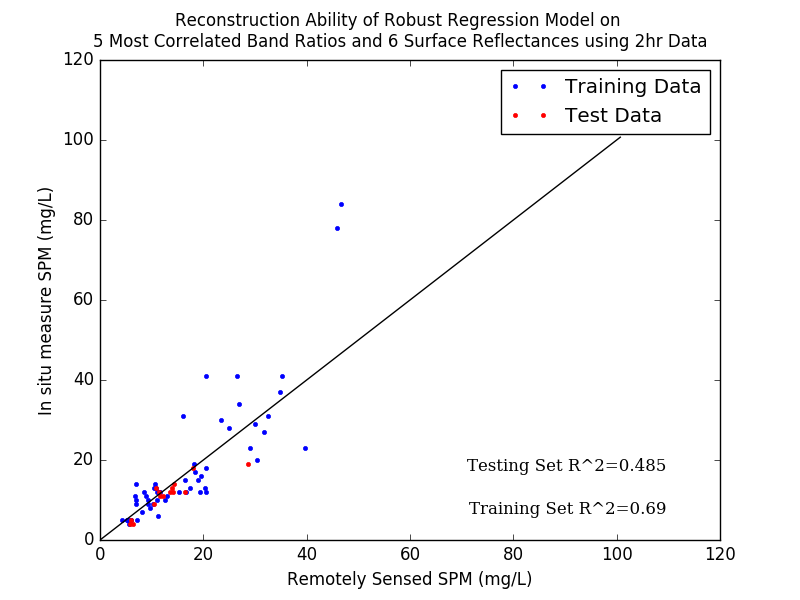
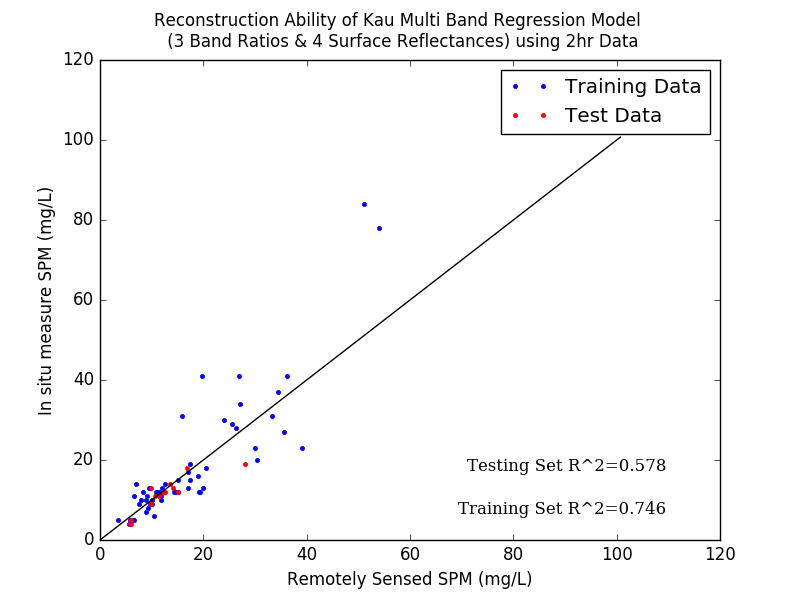
fixed polaris csv with extinction coeffs using google docs and excel. started coding excoeff plot making

diff --git a/learning/make_plots.py b/learning/make_plots.py
@@ -8,53 +8,36 @@ seed = 4
 
 
 def r2_vs_time_cutoff(times, spm_cutoff=None):
-    # times = np.array([1,2,4])
-
     r2s = np.zeros_like(times, dtype='float64')
     num_data = np.zeros_like(times, dtype='int32')
 
-    thetas = np.array([]).reshape(9, 0)
     for index, time in enumerate(times):
-        # print index,time
+        # get appropriate features
         x, y = regression.get_data(filenames=[
             '/Users/Nathan/Dropbox/SedimentLearning/data/landsat_polaris_filtered/filtered_{}hr.csv'.format(time)],
             spm_cutoff=spm_cutoff)
-        print x.shape
-        top_5_bands = regression.top_5_band_ratios(x)
-        # Add to feature array
-        x = np.append(x, top_5_bands, axis=1)
+        x = regression.Kau_MB_BR_features(x)
 
-        logy = np.log(y)
+        logy = np.log10(y)
+
+        # create the huber fit model
         alpha = 8
-
         model = mycvx.kfolds_convex(x, logy, alpha, random_seed=seed)
-
         y_test = model['data']['y_test']
         y_pred = model['data']['y_pred']
         y_train = model['data']['y_train']
         y_train_pred = model['data']['y_train_pred']
 
-        # print model['theta']
-
-
         r2_test = np.round(r2_score(y_test, y_pred), 3)
         r2_train = np.round(r2_score(y_train, y_train_pred), 3)
 
-        r2_test_unlog = np.round(r2_score(np.exp(y_test), np.exp(y_pred)), 3)
-        r2_train_unlog = np.round(r2_score(np.exp(y_train), np.exp(y_train_pred)), 3)
+        r2_test_unlog = np.round(r2_score(np.power(10,y_test), np.power(10,y_pred)), 3)
+        r2_train_unlog = np.round(r2_score(np.power(10,y_train), np.power(10,y_train_pred)), 3)
 
-        # print r2_train,r2_test
-        # r2s[index] = r2_train
         r2s[index] = r2_train_unlog
         num_data[index] = x.shape[0]
 
-        # TODO fix this bug, thetas is 1d array
-        # thetas = np.append(thetas,model['theta'],axis=1)
-
         print r2s, num_data
-    # print thetas
-    # TODO, fix division
-    # print np.divide(thetas[1],thetas[0])
     return r2s, num_data
 
 
@@ -66,6 +49,9 @@ def plot_r2_over_time_diff():
     # r2s,num_data = [ 0.702  0.655  0.432  0.106  0.106  0.106  0.045  0.17 ], [ 61, 126, 234, 281, 281, 281, 298, 480]
     # unlogged r2 below, ALL POINTS UNDER CLOUD AND ADJACENT DELETED
     # [ 0.883  0.697  0.447  0.204  0.204  0.204  0.216  0.162] [ 34  75 157 185 185 185 197 302]
+
+    # unlogged r2 below, NEW KAU FEATURES
+    # [ 0.851  0.746  0.439  0.165  0.165  0.165  0.191  0.16 ] [ 34  75 157 185 185 185 197 302]
     fig = plt.figure()
     ax = fig.add_subplot(111)
     ax1plot = ax.plot(times, r2s, 'ob')
@@ -76,9 +62,6 @@ def plot_r2_over_time_diff():
     ax.set_xticks(times)
 
     ax.legend(ax1plot + ax2plot, ['R^2', 'Number of Samples'], loc='upper right')
-    # ax2.legend('Num Samples')
-    # ax.legend(loc=1)
-    # ax2.legend(loc=2)
 
     ax2.set_ylabel('Number of Samples')
     fig.suptitle('R^2s of Robust Regression Model versus Data Collection Time Difference Threshold')
@@ -243,8 +226,58 @@ def make_huber_train_basic(time_cutoff, spm_cutoff=None):
     # plt.show()
     print 'r2 train log: ', r2_train
 
+def make_huber_train_Kau_MB_ExCoeff(time_cutoff):
+    '''
 
-def make_huber_train_band_ratios(time_cutoff, spm_cutoff=None):
+    :param time_cutoff: acceptable maximum diffence in time between polaris and landsat
+    :return: nothing, just saves plot
+    '''
+    # Get the appropriate features: 3 band ratios, 4 reflectances, SPM
+    x, y = regression.get_data(filenames=[
+        '/Users/Nathan/Dropbox/SedimentLearning/data/landsat_polaris_filtered/filtered_{}hr.csv'.format(time_cutoff)],y_names=['Measured Extinction Coefficient'],Y_CODE='Measured Extinction Coefficient')  # 8hr data
+    x = regression.Kau_MB_BR_features(x)
+
+    # log base 10 spm regression
+    logy = np.log10(y)
+
+    # generate the huber regression model
+    alpha = 8
+    model = mycvx.kfolds_convex(x, logy, alpha, random_seed=seed)
+    y_test = model['data']['y_test']
+    y_pred = model['data']['y_pred']
+    y_train = model['data']['y_train']
+    y_train_pred = model['data']['y_train_pred']
+
+    # Compute R2 scores
+    r2_test = np.round(r2_score(y_test, y_pred), 3)
+    r2_train = np.round(r2_score(y_train, y_train_pred), 3)
+
+    # Start creating the plot for the log graph
+    plt.clf()
+    fig = plt.figure()
+    ax = fig.add_subplot(111)
+
+    ax.plot(y_train_pred, y_train, '.b', label='Training Data')
+    ax.plot(y_pred, y_test, '.r', label='Test Data')
+    ax.plot(np.arange(0, 1.2 * max(np.max(y_test), np.max(y_train)), .1),
+            np.arange(0, 1.2 * max(np.max(y_train), np.max(y_test)), .1), '-k')
+
+    ax.legend()
+
+    fig.suptitle(
+        'Extinction Coefficient Reconstruction Ability of Kau Multi Band Regression Model \n (3 Band Ratios & 4 Surface Reflectances) using {}hr Data'.format(
+            time_cutoff))
+    ax.set_xlabel('Log Remotely Sensed SPM (mg/L)')
+    ax.set_ylabel('Log In situ measure SPM (mg/L)')
+
+    ax.annotate(xy=(0, 0), xytext=(5. / 6., 1. / 7.), s='Training Set R^2={}'.format(r2_train),
+                textcoords="figure fraction", family='serif', horizontalalignment='right')
+    ax.annotate(xy=(0, 0), xytext=(5. / 6., 1.5 / 7.), s='Testing Set R^2={}'.format(r2_test),
+                textcoords="figure fraction", family='serif', horizontalalignment='right')
+
+    plt.savefig('../figures/huber_training_Kau_MB_excoeff_log_{}hr'.format(time_cutoff))
+
+def make_huber_train_Kau_MB(time_cutoff, spm_cutoff=None):
     '''
     on 8hr data, the r2 for the log regression is .415 and .094 when unlogged
     on 4hr data, r2 is .313 on unlogged top 5 band ratios
@@ -258,37 +291,29 @@ def make_huber_train_band_ratios(time_cutoff, spm_cutoff=None):
     :return:
     '''
 
+    # Get the appropriate features: 3 band ratios, 4 reflectances, SPM
     x, y = regression.get_data(filenames=[
         '/Users/Nathan/Dropbox/SedimentLearning/data/landsat_polaris_filtered/filtered_{}hr.csv'.format(time_cutoff)],
         spm_cutoff=spm_cutoff)  # 8hr data
+    x = regression.Kau_MB_BR_features(x)
 
-    # Get top 5 correlated band ratios
-    top_5_bands = regression.top_5_band_ratios(x)
-    # Add to feature array
-    x = np.append(x, top_5_bands, axis=1)
+    # log base 10 spm regression
+    logy = np.log10(y)
 
-    '''
-    # Get top 3 correlated band ratios
-    top_3_bands = regression.division_feature_expansion(x)[:,[29,9,14,28,5]]
-    # Add to feature array
-    x = np.append(x,top_3_bands,axis=1)
-    '''
-
-    # log spm regression
-    logy = np.log(y)
-
+    # generate the huber regression model
     alpha = 8
-
     model = mycvx.kfolds_convex(x, logy, alpha, random_seed=seed)
     y_test = model['data']['y_test']
     y_pred = model['data']['y_pred']
     y_train = model['data']['y_train']
     y_train_pred = model['data']['y_train_pred']
-    print model['theta']
+    # print model['theta']
 
+    # Compute R2 scores
     r2_test = np.round(r2_score(y_test, y_pred), 3)
     r2_train = np.round(r2_score(y_train, y_train_pred), 3)
 
+    # Start creating the plot for the log graph
     plt.clf()
     fig = plt.figure()
     ax = fig.add_subplot(111)
@@ -301,7 +326,7 @@ def make_huber_train_band_ratios(time_cutoff, spm_cutoff=None):
     ax.legend()
 
     fig.suptitle(
-        'Reconstruction Ability of Multi Band Regression Model on\n 5 Most Correlated Band Ratios and 6 Surface Reflectances using {}hr Data'.format(
+        'Reconstruction Ability of Kau Multi Band Regression Model \n (3 Band Ratios & 4 Surface Reflectances) using {}hr Data'.format(
             time_cutoff))
     ax.set_xlabel('Log Remotely Sensed SPM (mg/L)')
     ax.set_ylabel('Log In situ measure SPM (mg/L)')
@@ -311,15 +336,16 @@ def make_huber_train_band_ratios(time_cutoff, spm_cutoff=None):
     ax.annotate(xy=(0, 0), xytext=(5. / 6., 1.5 / 7.), s='Testing Set R^2={}'.format(r2_test),
                 textcoords="figure fraction", family='serif', horizontalalignment='right')
 
-    plt.savefig('../figures/huber_training_band_ratio_log_{}hr'.format(time_cutoff))
+    plt.savefig('../figures/huber_training_Kau_MB_log_{}hr'.format(time_cutoff))
     # plt.show()
     print 'r2 train log: ', r2_train
 
-    # unlog y_train and pred etc
-    y_test = np.exp(y_test)
-    y_pred = np.exp(y_pred)
-    y_train = np.exp(y_train)
-    y_train_pred = np.exp(y_train_pred)
+    # start creating the plot for the non log graph
+    # unlog y_train, pred etc
+    y_test = np.power(10,y_test)
+    y_pred = np.power(10,y_pred)
+    y_train = np.power(10,y_train)
+    y_train_pred = np.power(10,y_train_pred)
 
     r2_test = np.round(r2_score(y_test, y_pred), 3)
     r2_train = np.round(r2_score(y_train, y_train_pred), 3)
@@ -334,7 +360,7 @@ def make_huber_train_band_ratios(time_cutoff, spm_cutoff=None):
     ax.plot(np.arange(0, 1.2 * max(np.max(y_test), np.max(y_train)), .1),
             np.arange(0, 1.2 * max(np.max(y_train), np.max(y_test)), .1), '-k')
     fig.suptitle(
-        'Reconstruction Ability of Robust Regression Model on \n5 Most Correlated Band Ratios and 6 Surface Reflectances using {}hr Data'.format(
+        'Reconstruction Ability of Kau Multi Band Regression Model \n (3 Band Ratios & 4 Surface Reflectances) using {}hr Data'.format(
             time_cutoff))
     ax.set_xlabel('Remotely Sensed SPM (mg/L)')
     ax.set_ylabel('In situ measure SPM (mg/L)')
@@ -344,7 +370,7 @@ def make_huber_train_band_ratios(time_cutoff, spm_cutoff=None):
     ax.annotate(xy=(0, 0), xytext=(5. / 6., 1.5 / 7.), s='Testing Set R^2={}'.format(r2_test),
                 textcoords="figure fraction", family='serif', horizontalalignment='right')
 
-    plt.savefig('../figures/huber_training_band_ratio_{}hr'.format(time_cutoff))
+    plt.savefig('../figures/huber_training_Kau_MB_{}hr'.format(time_cutoff))
     # plt.show()
     print 'r2 train not log: ', r2_train
 
@@ -413,9 +439,10 @@ def make_huber_train():
 if __name__ == '__main__':
     # make_huber_train()
     # make_huber_test()
-    # [make_huber_train_band_ratios(i) for i in [1,2,4,8]]
-    make_huber_train_band_ratios(2)
+    # [make_huber_train_Kau_MB(i) for i in [1,2,4,8]]
+    # make_huber_train_Kau_MB(2)
     # make_huber_train_EA_MB(2)
     # make_huber_train_basic(2)
     # plot_r2_over_time_diff()
     # r2_vs_time_cutoff([8])
+    make_huber_train_Kau_MB_ExCoeff(2)

diff --git a/data_formatter/landsat_get_data.py b/data_formatter/landsat_get_data.py
@@ -385,7 +385,8 @@ def convert_all_usgs_to_UTC(paths=['/Users/Nathan/Dropbox/SedimentLearning/data/
 # Filtered data produced on 3/3/16 may be incorrect because of timezone shifting
 # TODO fix timezone error with converting pst to utc
 # TODO polaris UTC data created on 3/3/16 off by about 1 hr!!! new code fixes this
-def convert_polaris_to_UTC():
+def convert_polaris_to_UTC(filename = '/Users/Nathan/Dropbox/SedimentLearning/data/polaris/all_polaris_data.csv',
+                           savepath = '/Users/Nathan/Dropbox/SedimentLearning/data/polaris/all_polaris_data_UTC.csv'):
 
     '''
     Reads Joe's polaris data csv into Pandas DataFrame and then turns the US pacific times into utc times.
@@ -395,7 +396,7 @@ def convert_polaris_to_UTC():
     before = time.time()
 
     # read csv
-    polaris = pd.read_csv('/Users/Nathan/Dropbox/SedimentLearning/data/polaris/all_polaris_data.csv', low_memory=False)
+    polaris = pd.read_csv(filename, low_memory=False)
 
     # get rid of the units row
     polaris.drop(polaris.index[0], inplace=True)
@@ -409,13 +410,15 @@ def convert_polaris_to_UTC():
     # strip spaces off of date_time
     # convert to date_time
     # localize to pst
+
+    # big %Y is 2003
     polaris['date_time_UTC'] = [PST.localize(datetime.strptime(x.strip(),'%m/%d/%Y %H%M')) for x in polaris.date_time_UTC]
 
     #convert to UTC
     polaris['date_time_UTC'] = [x.astimezone(pytz.timezone('UTC')) for x in polaris.date_time_UTC]
 
     # save to csv
-    polaris.to_csv('/Users/Nathan/Dropbox/SedimentLearning/data/polaris/all_polaris_data_UTC.csv', mode='wb+',
+    polaris.to_csv(savepath, mode='wb+',
                    index=False)
     print 'Time to execute conversion: ' + str(time.time() - before)
     return polaris
@@ -710,9 +713,15 @@ if __name__ == '__main__':
     # time_and_write_landsat_data()
     # convert_polaris_to_UTC()
     # convert_landsat_to_UTC()
-    filtered = create_final_filtered_csv()
-    print filtered
-    create_varied_cutoff_csvs()
+    # filtered = create_final_filtered_csv()
+    # print filtered
+    # create_varied_cutoff_csvs()
+
+
+    ### workflow for changing polaris data to UTC
+
+    # convert_polaris_to_UTC(filename = '/Users/Nathan/Dropbox/SedimentLearning/data/polaris/polaris_excoeff_goog.csv',
+    #                        savepath = '/Users/Nathan/Dropbox/SedimentLearning/data/polaris/polaris_excoeff_UTC.csv')
 
 
     #### workflow for matching landsat data with usgs data:
